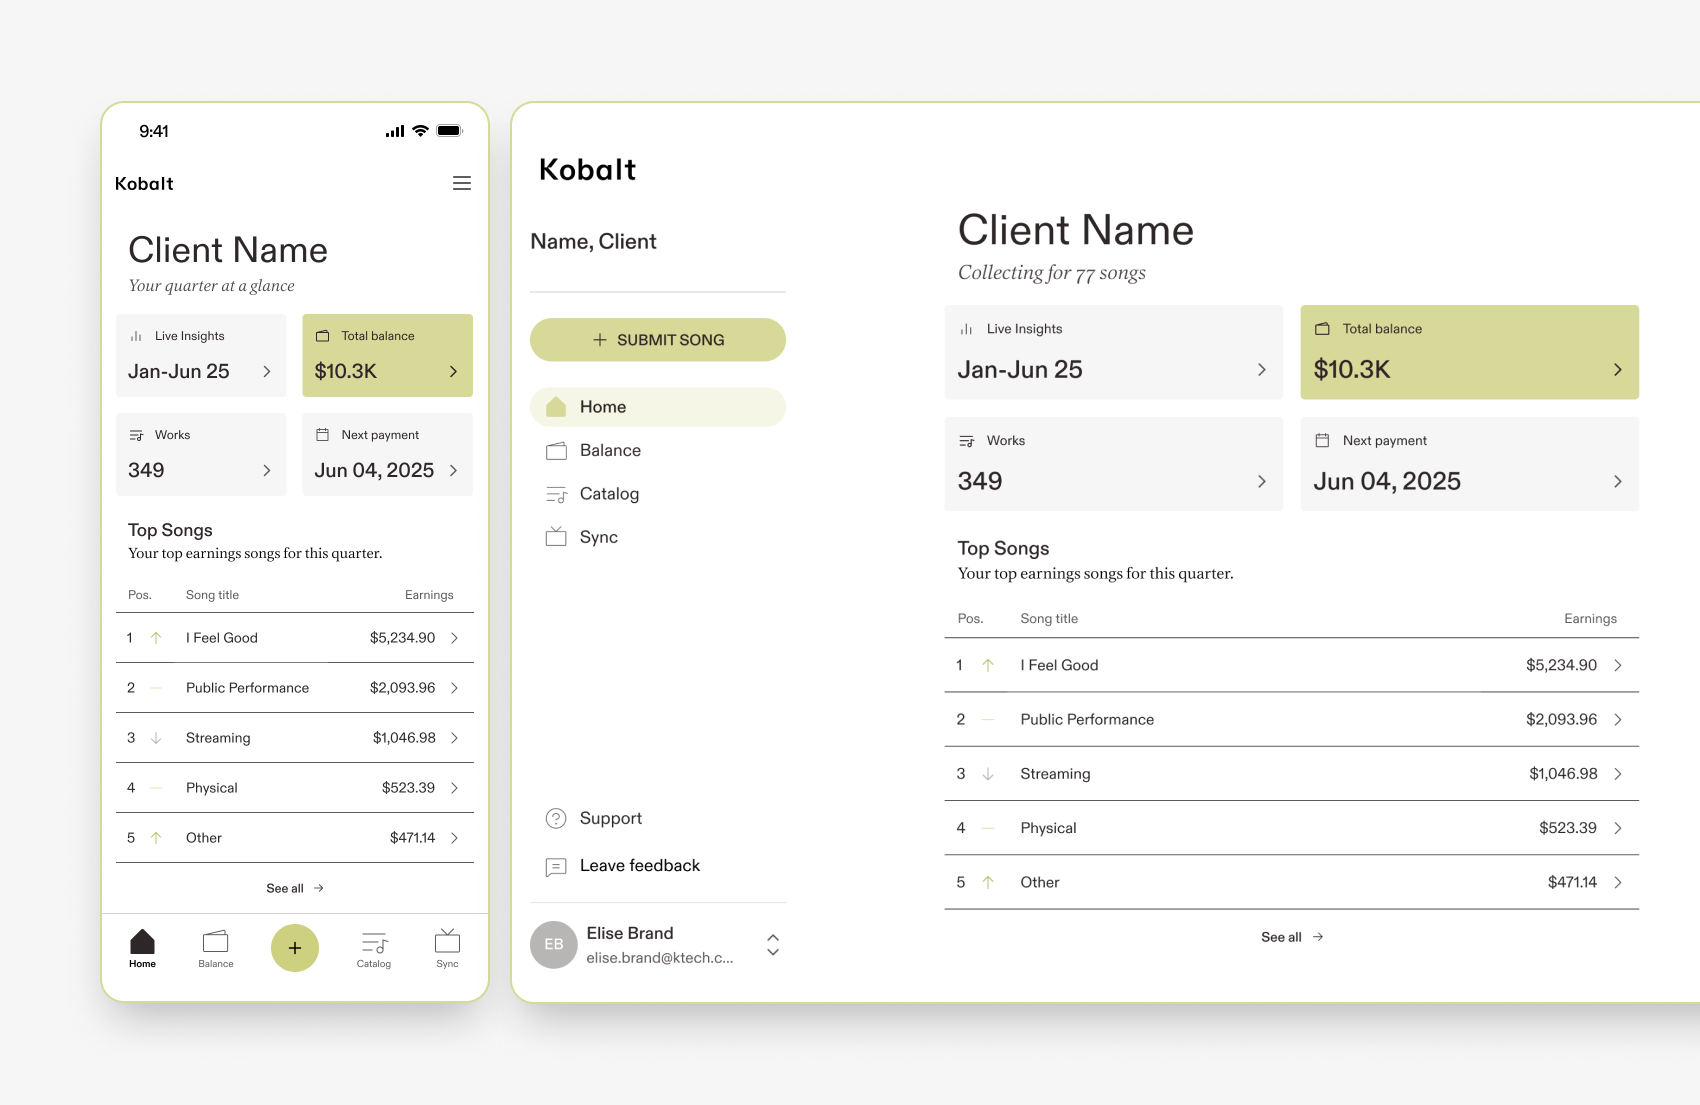
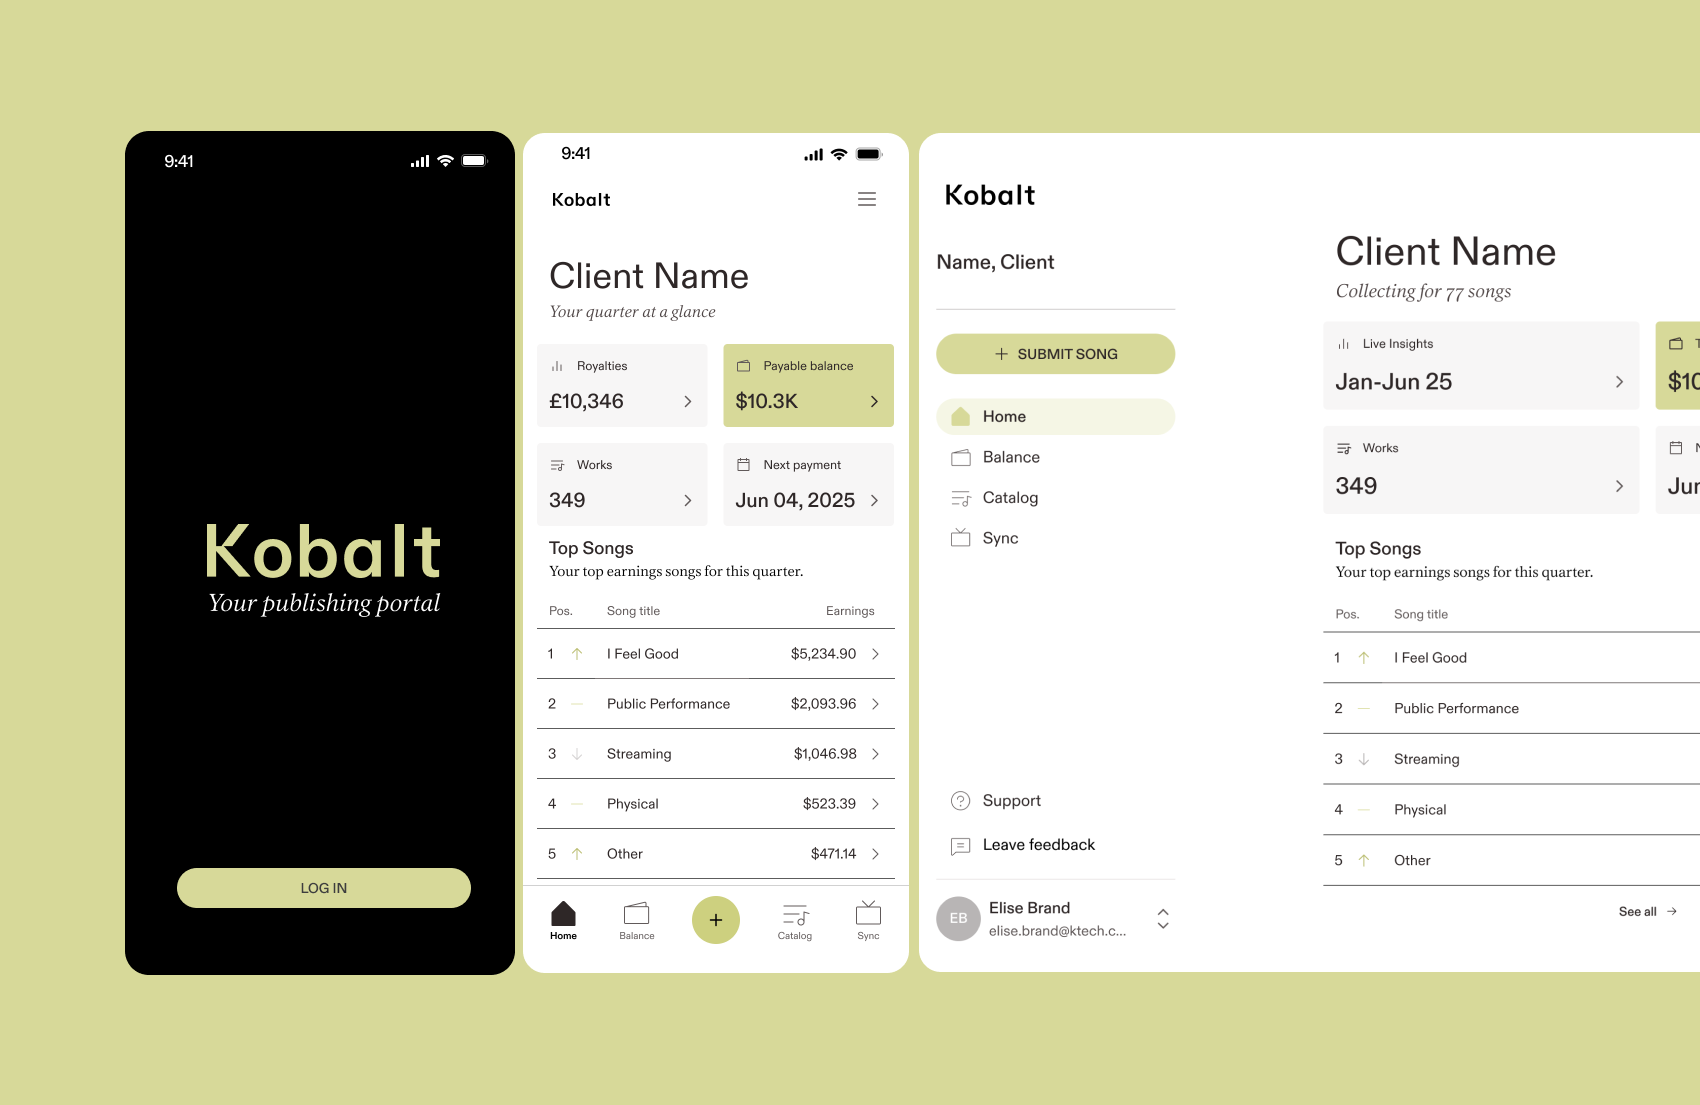
Update KOSIGN, Portal, and Tools preview images; swap in new List Jockey preview

diff --git a/client/src/pages/PlayIndex.tsx b/client/src/pages/PlayIndex.tsx
@@ -54,7 +54,7 @@ export default function PlayIndex() {
               <p>Spotify playlist arc curation</p>
             </div>
             <Link href="/play/listjockey" className="block group">
-              <img src="/Preview-ListJockey.png" alt="List Jockey" className="w-full h-auto grayscale group-hover:grayscale-0 transition-all duration-300 rounded-xl" />
+              <img src="/Preview-LJ.png" alt="List Jockey" className="w-full h-auto grayscale group-hover:grayscale-0 transition-all duration-300 rounded-xl" />
             </Link>
             <div className="flex items-center justify-between">
               <span className="label text-muted-foreground">June 2026</span>
